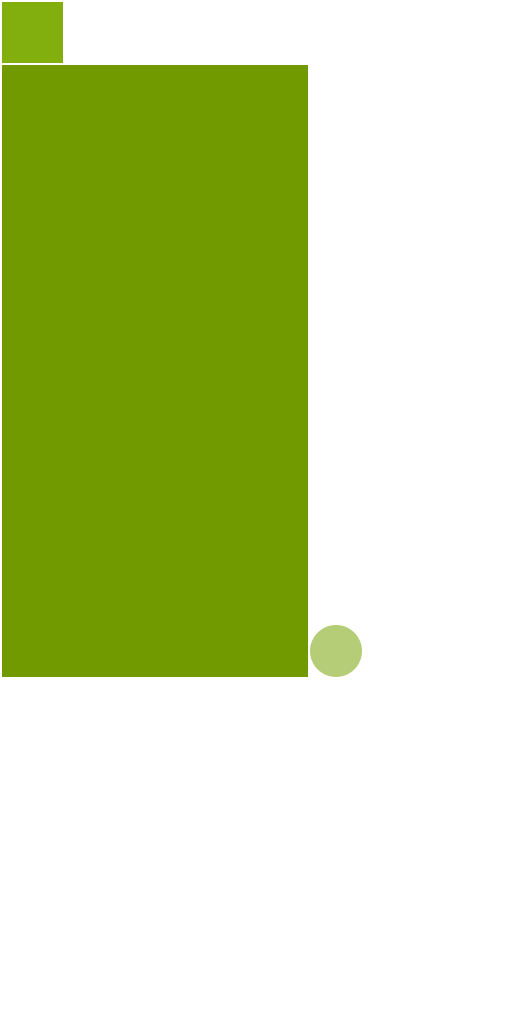
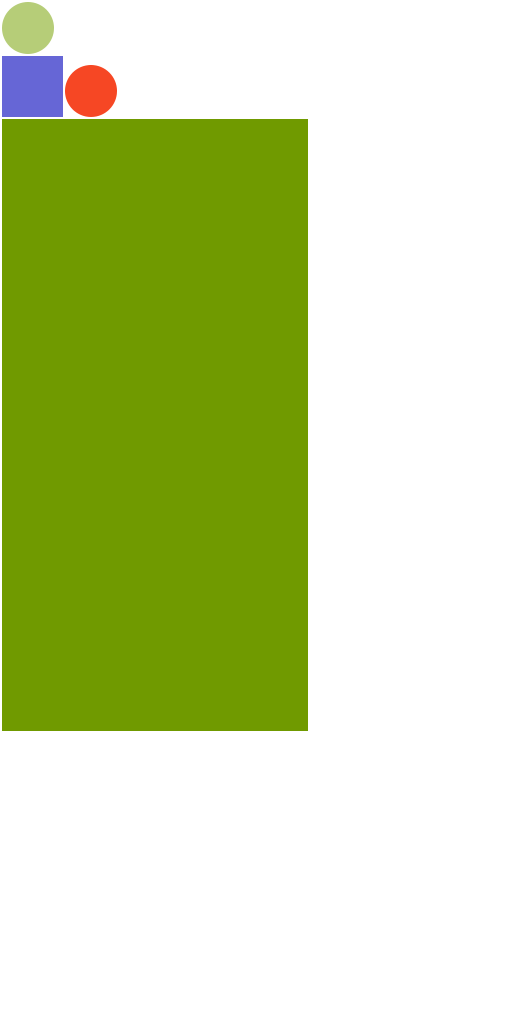
Add more images for clicking

Changed region(s): [[0.0, 0.5938, 0.7188, 0.7188], [0.0, 0.0, 0.625, 0.125]]

diff --git a/core/src/com/olan/warmonger/Assets.java b/core/src/com/olan/warmonger/Assets.java
@@ -8,7 +8,9 @@ public class Assets {
 
   public static AtlasRegion background;
   public static AtlasRegion tile;
+  public static AtlasRegion transparentTile;
   public static AtlasRegion unit;
+  public static AtlasRegion selectedUnit;
 
   public static void load () {
     loadTexture();
@@ -23,7 +25,9 @@ public class Assets {
 
     background = loadTexture("background");
     tile = loadTexture("tile");
+    transparentTile = loadTexture("transparent-tile");
     unit = loadTexture("unit");
+    selectedUnit = loadTexture("selected-unit");
   }
 
   public static void dispose () {

diff --git a/core/src/com/olan/warmonger/Tile.java b/core/src/com/olan/warmonger/Tile.java
@@ -11,7 +11,7 @@ public class Tile extends GameObject {
   public Tile (int row, int column) {
     setRow(row);
     setColumn(column);
-    setTexture(new TextureRegion(new Texture("tile.png")));
+    setTexture(Assets.transparentTile);
   }
 
   public void setRow (int row) {

diff --git a/core/src/com/olan/warmonger/Map.java b/core/src/com/olan/warmonger/Map.java
@@ -42,6 +42,6 @@ public class Map extends GameObject implements Unit.UnitListener {
 
   @Override
   public void onUnitClicked (Unit unit, int row, int column) {
-    unit.setTexture(Assets.tile);
+    unit.setTexture(Assets.selectedUnit);
   }
 }
